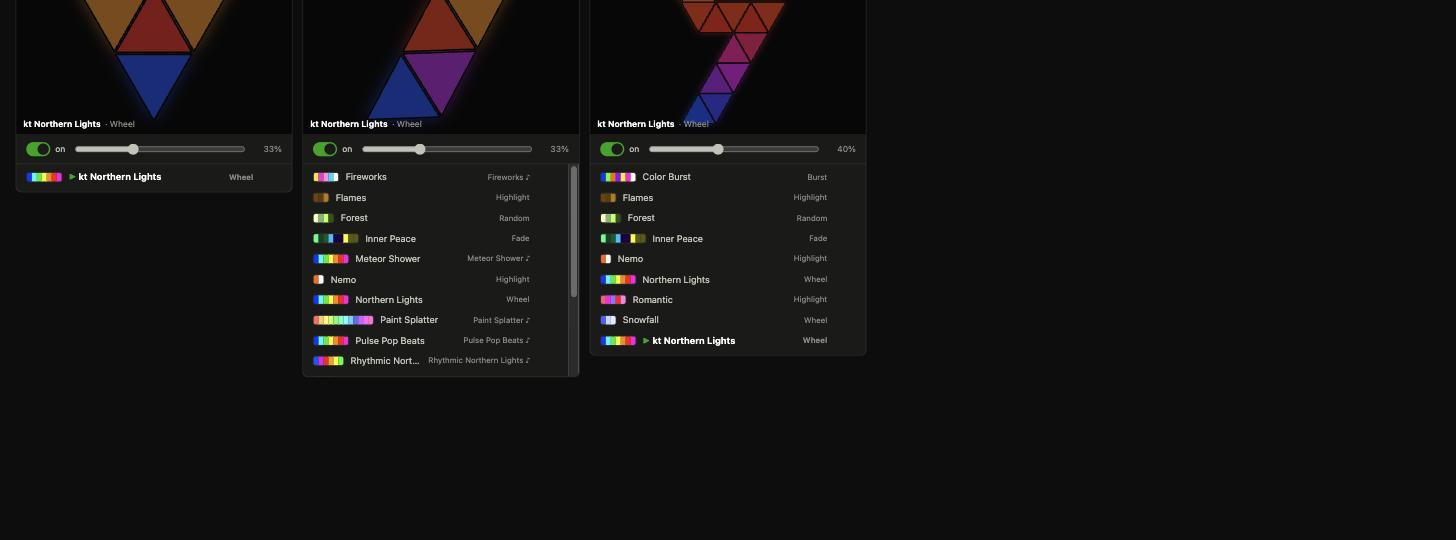
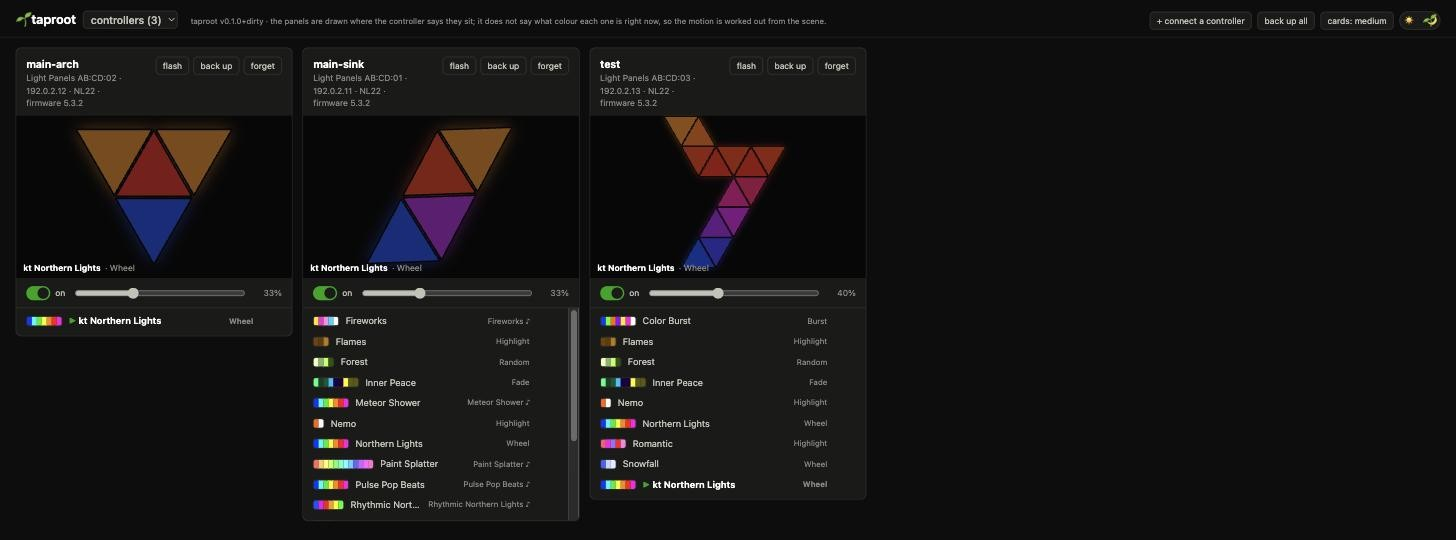
The page screenshot cropped to the cards, after the command-line ones

diff --git a/README.md b/README.md
@@ -23,11 +23,6 @@ and `--dry-run` prints exactly what would be sent without sending it.
 
 ## In action
 
-The page (`taproot serve`): every controller's panels drawn where they sit, moving as their scene does, with the
-everyday controls, each scene's menu, and the scene editor behind the picker at the top left:
-
-![the taproot page: three controllers' panels, lit as their scenes move](docs/screenshots/page.jpg)
-
 Finding the controllers on the network, and what each is doing:
 
 ![taproot find](docs/screenshots/find.svg)
@@ -46,6 +41,11 @@ Settings, backups, painting panels, and firmware:
 ![taproot scene paint](docs/screenshots/paint.svg)
 ![taproot firmware](docs/screenshots/firmware.svg)
 ![taproot firmware trigger](docs/screenshots/trigger.svg)
+
+And the page (`taproot serve`): every controller's panels drawn where they sit, moving as their scene does, with
+the everyday controls, each scene's menu, and the scene editor behind the picker at the top left:
+
+![the taproot page: three controllers' panels, lit as their scenes move](docs/screenshots/page.jpg)
 
 The addresses in these are made up; everything else is as it was printed.
 
